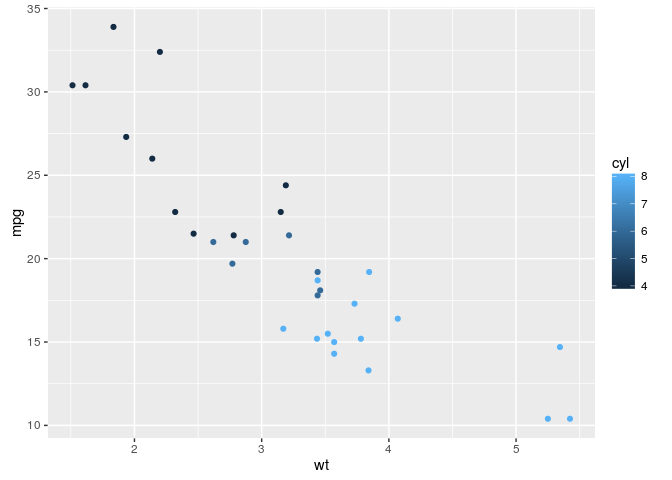
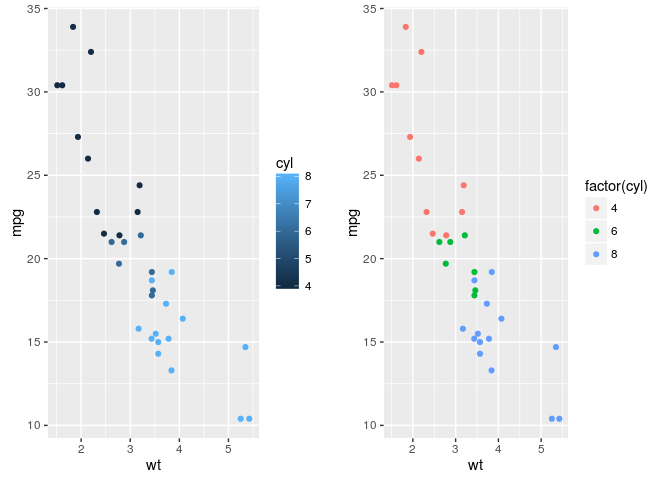
first try

diff --git a/ggplot_practice.md b/ggplot_practice.md
@@ -53,6 +53,7 @@ ggplot practice
 
 ![](ggplot_practice_files/figure-markdown_strict/unnamed-chunk-3-3.png)  
 
+    library(gridExtra)
     head(mtcars,3)
 
     ##                mpg cyl disp  hp drat    wt  qsec vs am gear carb
@@ -60,14 +61,12 @@ ggplot practice
     ## Mazda RX4 Wag 21.0   6  160 110 3.90 2.875 17.02  0  1    4    4
     ## Datsun 710    22.8   4  108  93 3.85 2.320 18.61  1  1    4    1
 
-    qplot(wt,mpg,data=mtcars,colour=cyl)
-
-![](ggplot_practice_files/figure-markdown_strict/unnamed-chunk-4-1.png)  
-
+    p1=qplot(wt,mpg,data=mtcars,colour=cyl)
     levels(mtcars$cyl)
 
     ## NULL
 
-    qplot(wt,mpg,data=mtcars,colour=factor(cyl))
+    p2=qplot(wt,mpg,data=mtcars,colour=factor(cyl))
+    grid.arrange(p1,p2,ncol=2)
 
-![](ggplot_practice_files/figure-markdown_strict/unnamed-chunk-4-2.png)
+![](ggplot_practice_files/figure-markdown_strict/unnamed-chunk-4-1.png)
